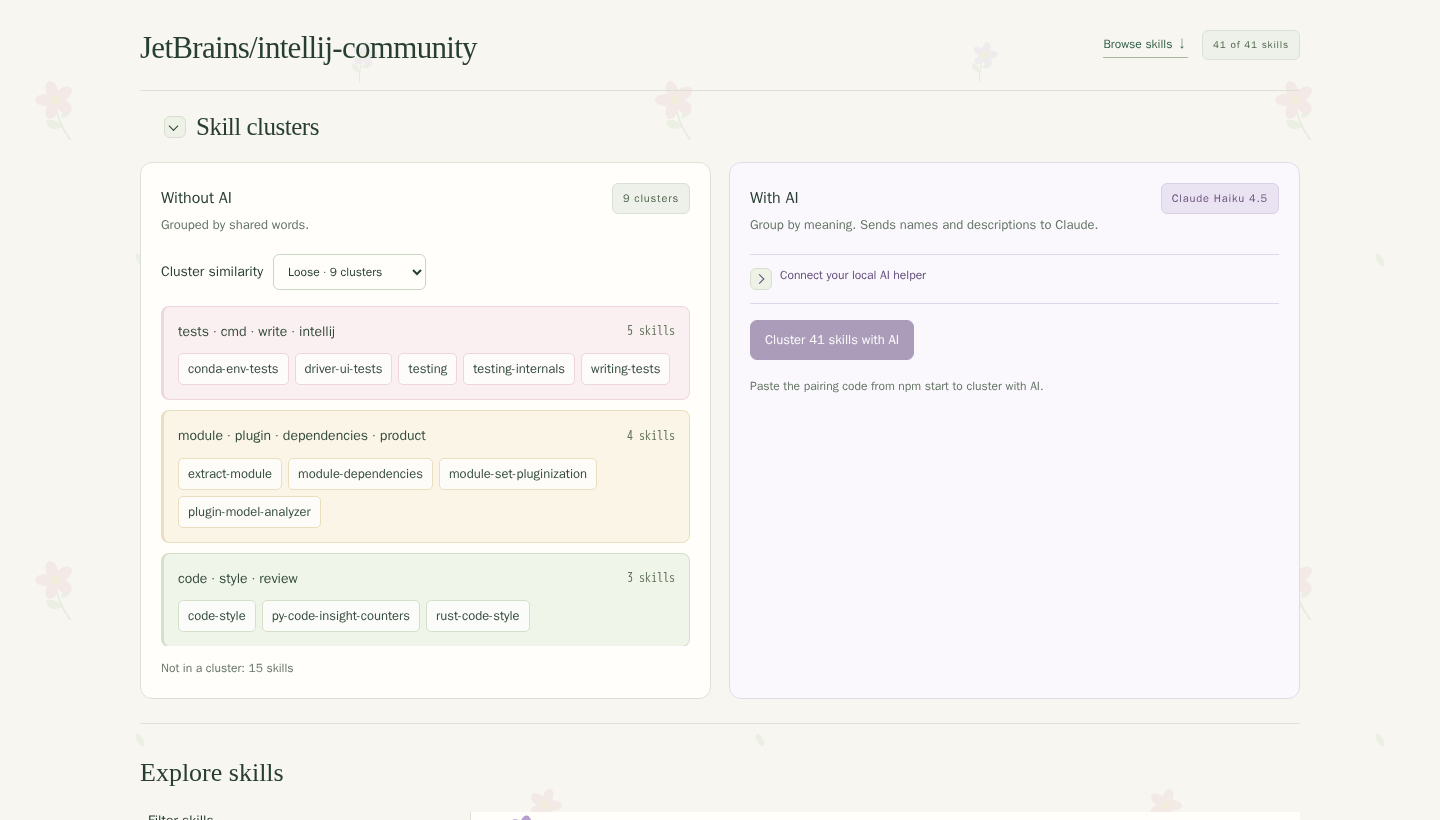
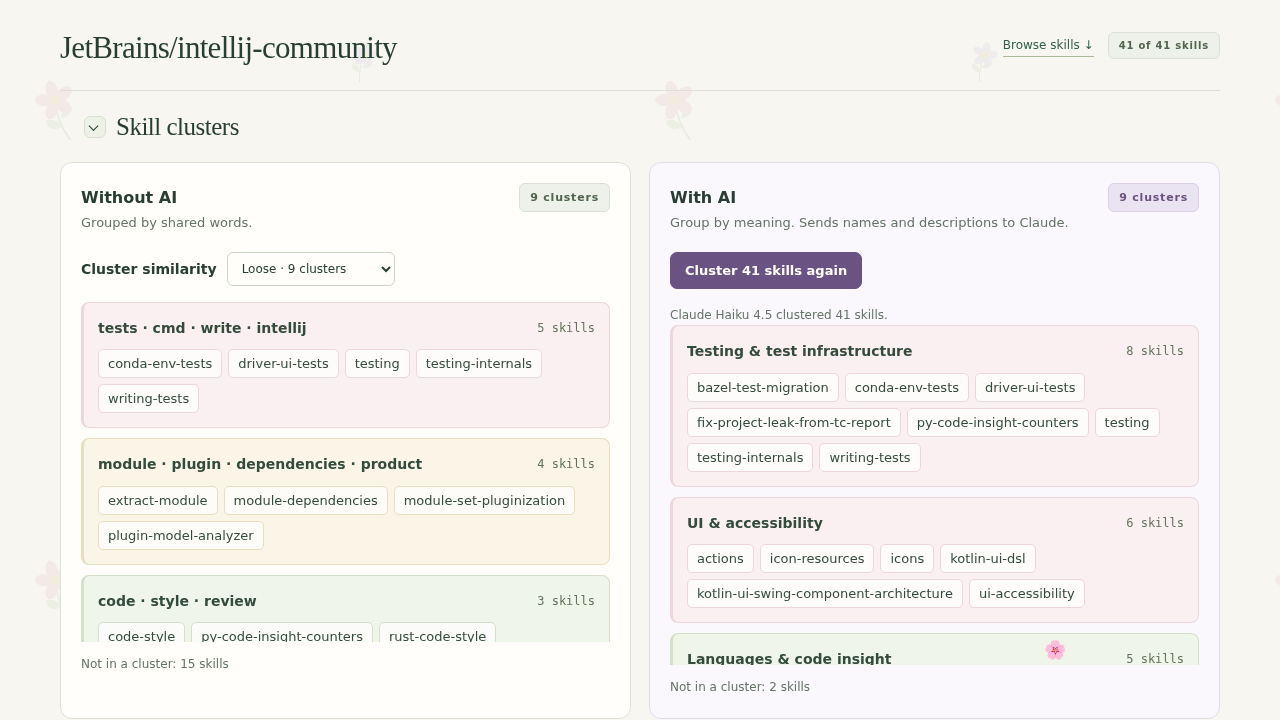
Refresh README preview with ideas and both cluster panels

diff --git a/README.md b/README.md
@@ -6,7 +6,7 @@
 
 Discover, read, and reuse AI agent skills from GitHub repositories and organizations.
 
-**[Get the HTML app](https://github.com/diffitask/skill-garden/blob/78036150a730c917bca671cb40b0a481b16c04d4/skill-garden.html)** · **[Try it locally](#try-it-locally)** · **[GitHub](https://github.com/diffitask/skill-garden)**
+**[Get the HTML app](https://github.com/diffitask/skill-garden/blob/79619150f89d322ab38164c2540b25c233d281e9/skill-garden.html)** · **[Try it locally](#try-it-locally)** · **[GitHub](https://github.com/diffitask/skill-garden)**
 
 No watering required.
 
@@ -27,19 +27,21 @@ Paste a GitHub repository or organization URL to discover its skills. Browse nam
 - **Discover** skills and search their names and descriptions.
 - **Find connections** with shared-word clusters or optional AI grouping by meaning.
 - **Read clearly** with a skill summary and the full original instructions.
-- **Reuse what works** by taking useful instructions into your own agent workflows. The design preview adds formatted Markdown and a Copy skill button.
+- **Reuse what works** by taking useful instructions into your own agent workflows.
 
-![Related skills grouped into separate Without AI and With AI panels](docs/screenshots/clusters.png)
+![Word clusters and an example AI clustering result shown side by side](docs/screenshots/clusters.png)
+
+*The AI panel shows an illustrative response rendered by the application.*
 
 ## Your next idea might already be blooming.
 
-Select a skill to read its description and original `SKILL.md`, with a link pinned to the scanned GitHub commit. The preview shown below includes a formatted document reader and one-click copying of the original Markdown.
+Select a skill to read its description and original `SKILL.md`, with a link pinned to the scanned GitHub commit. The preview shown below includes a formatted document reader.
 
 ![An IntelliJ skill and its full SKILL.md shown as a readable document](docs/screenshots/skill-document.png)
 
 ## Try it — one HTML file
 
-1. Open **[skill-garden.html](https://github.com/diffitask/skill-garden/blob/78036150a730c917bca671cb40b0a481b16c04d4/skill-garden.html)** in this repository and choose **Download raw file**.
+1. Open **[skill-garden.html](https://github.com/diffitask/skill-garden/blob/79619150f89d322ab38164c2540b25c233d281e9/skill-garden.html)** in this repository and choose **Download raw file**.
 2. Open the downloaded file in your browser.
 3. Enter a GitHub repository or organization URL and choose **Explore skills**.
 

diff --git a/spec/web.md b/spec/web.md
@@ -114,3 +114,5 @@
 - While the design preview remains on a separate branch, label its screenshots and link its
   portable HTML to the saved commit. Keep local setup and the main-branch portable filename
   accurate for the current Skill Atlas interface.
+- Label illustrative AI-clustering screenshots as examples; show both word and AI result
+  panels together without implying a live model run.
